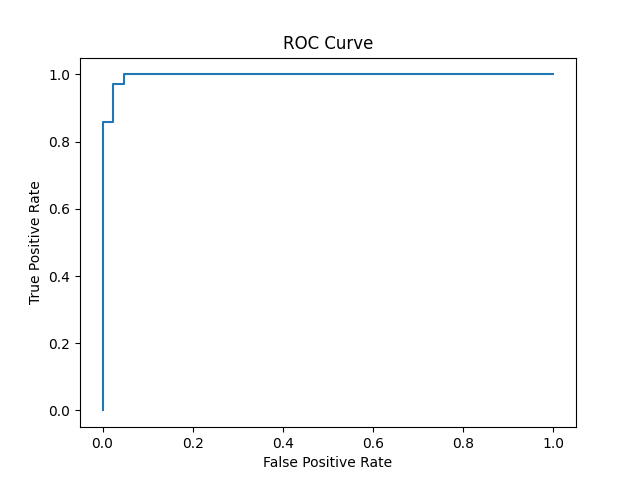
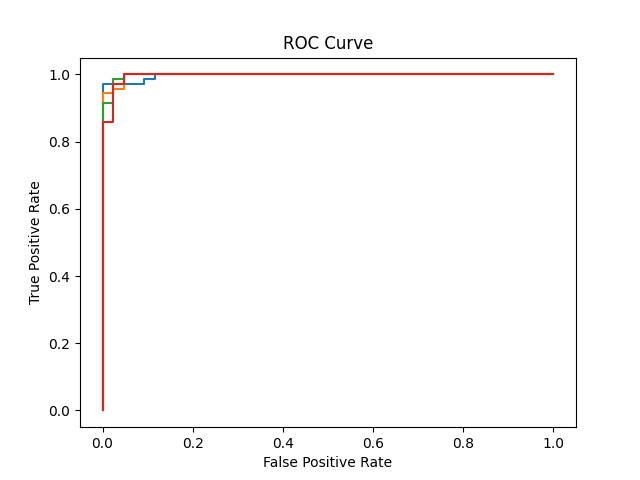
updated the code

Changed region(s): [[0.1562, 0.125, 0.875, 0.8438]]

diff --git a/src/train.py b/src/train.py
@@ -2,7 +2,7 @@ import mlflow
 import mlflow.sklearn
 import argparse
 import warnings
-
+import time 
 import numpy as np
 from sklearn.datasets import load_breast_cancer
 from sklearn.linear_model import LogisticRegression
@@ -38,73 +38,75 @@ args = parser.parse_args()
 # -------------------------------
 # Start MLflow run
 # -------------------------------
-with mlflow.start_run():
+for C in [0.01, 0.1, 1, 10]:
+    with mlflow.start_run():
+        # Load dataset
+        data = load_breast_cancer()
+        X = data.data
+        y = data.target
 
-    # Load dataset
-    data = load_breast_cancer()
-    X = data.data
-    y = data.target
+        # Train-test split
+        X_train, X_test, y_train, y_test = train_test_split(
+            X, y, test_size=0.2, random_state=42
+        )
 
-    # Train-test split
-    X_train, X_test, y_train, y_test = train_test_split(
-        X, y, test_size=0.2, random_state=42
-    )
+        # Adaptive max_iter for convergence
+        max_iter = 8000 if args.l1_ratio > 0.5 else 3000
 
-    # Adaptive max_iter for convergence
-    max_iter = 8000 if args.l1_ratio > 0.5 else 3000
+        # Pipeline: Scaling + Logistic Regression
+        model = Pipeline([
+            ("scaler", StandardScaler()),
+            ("clf", LogisticRegression(
+                C=C,
+                penalty="elasticnet",
+                l1_ratio=args.l1_ratio,
+                solver="saga",
+                max_iter=max_iter,
+                tol=1e-4
+            ))
+        ])
 
-    # Pipeline: Scaling + Logistic Regression
-    model = Pipeline([
-        ("scaler", StandardScaler()),
-        ("clf", LogisticRegression(
-            C=args.C,
-            penalty="elasticnet",
-            l1_ratio=args.l1_ratio,
-            solver="saga",
-            max_iter=max_iter,
-            tol=1e-4
-        ))
-    ])
+        # Train
+        model.fit(X_train, y_train)
 
-    # Train
-    model.fit(X_train, y_train)
+        # Predictions
+        preds = model.predict(X_test)
+        probs = model.predict_proba(X_test)[:, 1]
 
-    # Predictions
-    preds = model.predict(X_test)
-    probs = model.predict_proba(X_test)[:, 1]
+        # Metrics
+        acc = accuracy_score(y_test, preds)
+        f1 = f1_score(y_test, preds)
+        roc = roc_auc_score(y_test, probs)
 
-    # Metrics
-    acc = accuracy_score(y_test, preds)
-    f1 = f1_score(y_test, preds)
-    roc = roc_auc_score(y_test, probs)
+        # -------------------------------
+        # MLflow Logging
+        # -------------------------------
+        
+        mlflow.log_param("custom_C", C)
+        mlflow.log_param("custom_l1_ratio", args.l1_ratio)
+        mlflow.log_param("custom_max_iter", max_iter)
 
-    # -------------------------------
-    # MLflow Logging
-    # -------------------------------
-    
-    mlflow.log_param("C", args.C)
-    mlflow.log_param("l1_ratio", args.l1_ratio)
-    mlflow.log_param("max_iter", max_iter)
+        mlflow.log_metric("custom_accuracy", acc)
+        mlflow.log_metric("custom_f1", f1)
+        mlflow.log_metric("custom_roc_auc", roc)
 
-    mlflow.log_metric("accuracy", acc)
-    mlflow.log_metric("f1_score", f1)
-    mlflow.log_metric("roc_auc", roc)
+        # Log model (new API)
+        mlflow.sklearn.log_model(model, name="custom_model")
 
-    # Log model (new API)
-    mlflow.sklearn.log_model(model, name="model")
-
-    # Output
-    print(f"Accuracy: {acc:.4f}")
-    print(f"F1 Score: {f1:.4f}")
-    print(f"ROC-AUC: {roc:.4f}")
+        # Output
+        print(f"Accuracy: {acc:.4f}")
+        print(f"F1 Score: {f1:.4f}")
+        print(f"ROC-AUC: {roc:.4f}")
 
 
-    fpr, tpr, _ = roc_curve(y_test, probs)
+        fpr, tpr, _ = roc_curve(y_test, probs)
 
-    plt.plot(fpr, tpr)
-    plt.xlabel("False Positive Rate")
-    plt.ylabel("True Positive Rate")
-    plt.title("ROC Curve")
-    plt.savefig("roc_curve.png")
+        plt.plot(fpr, tpr)
+        plt.xlabel("False Positive Rate")
+        plt.ylabel("True Positive Rate")
+        plt.title("ROC Curve")
+        plt.savefig("roc_curve.png")
 
-    mlflow.log_artifact("roc_curve.png")
+        mlflow.log_artifact("roc_curve.png")
+
+        mlflow.end_run()
